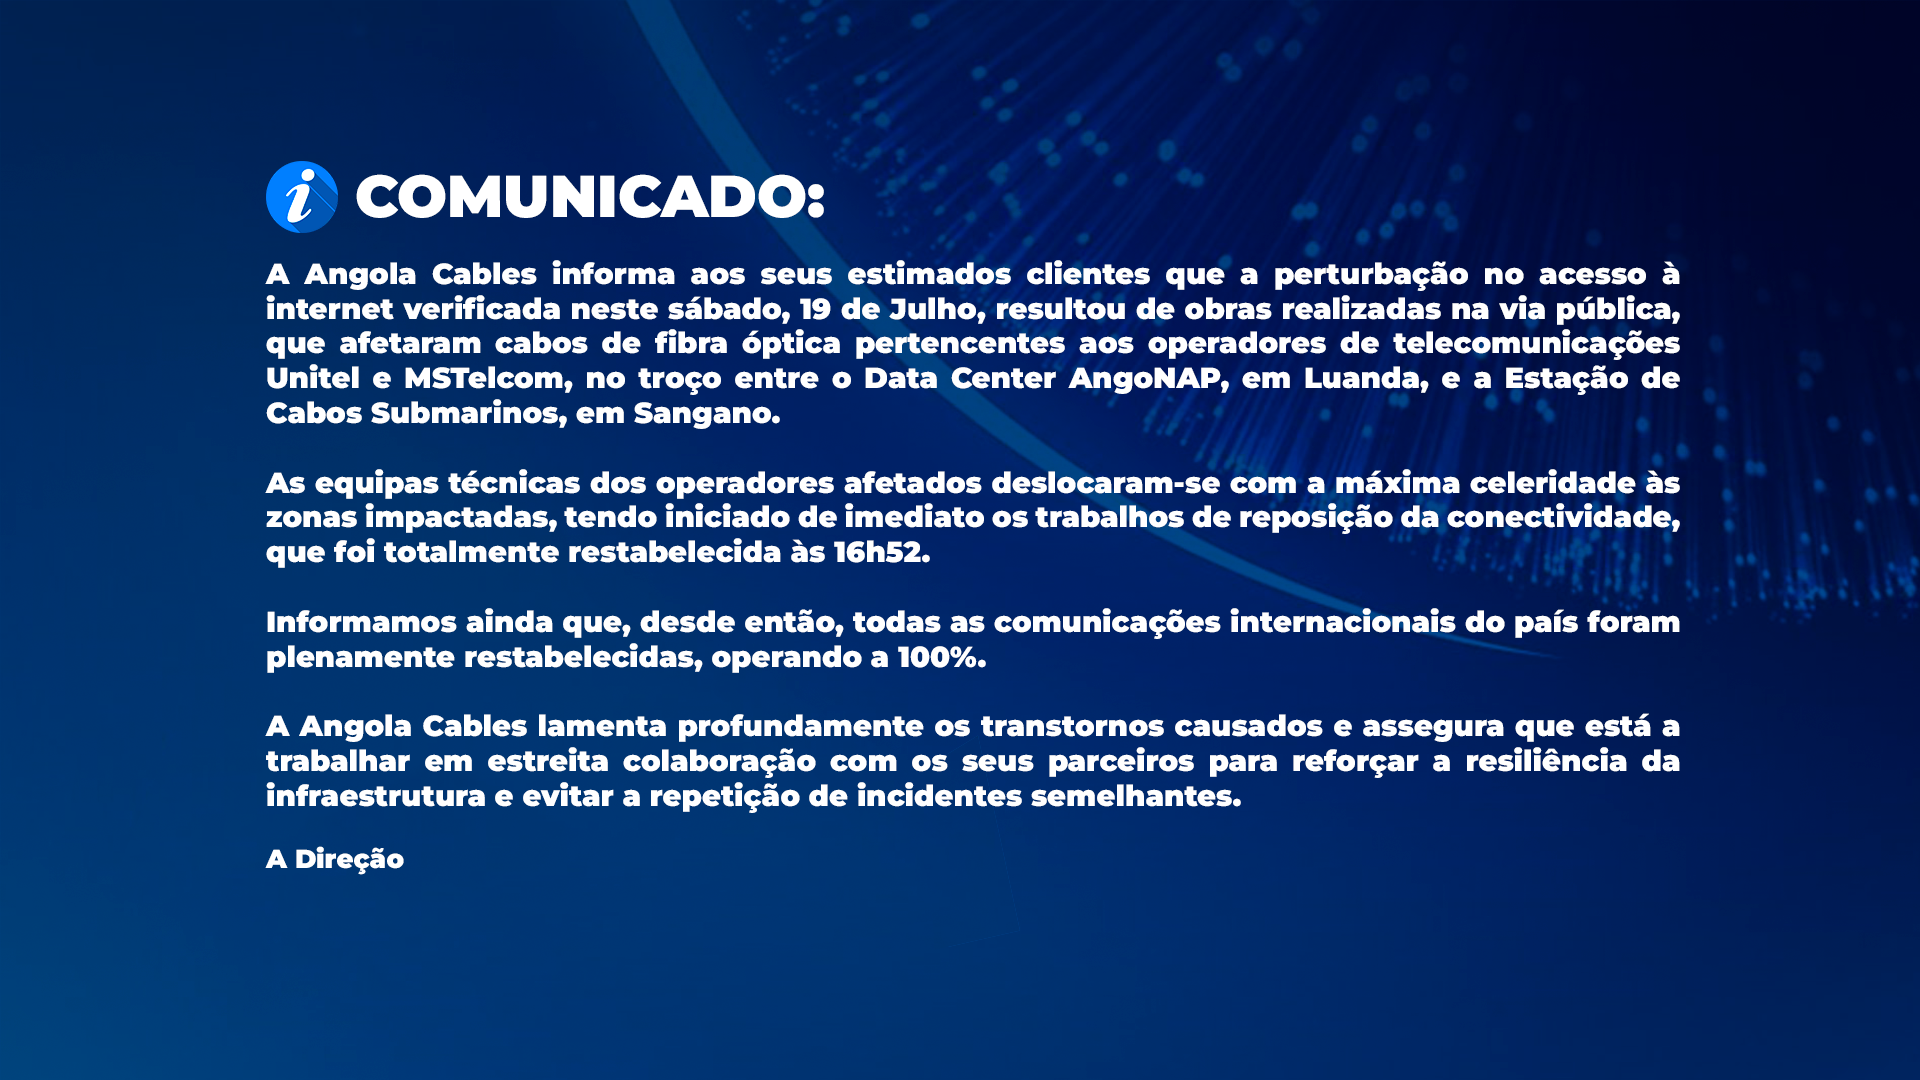
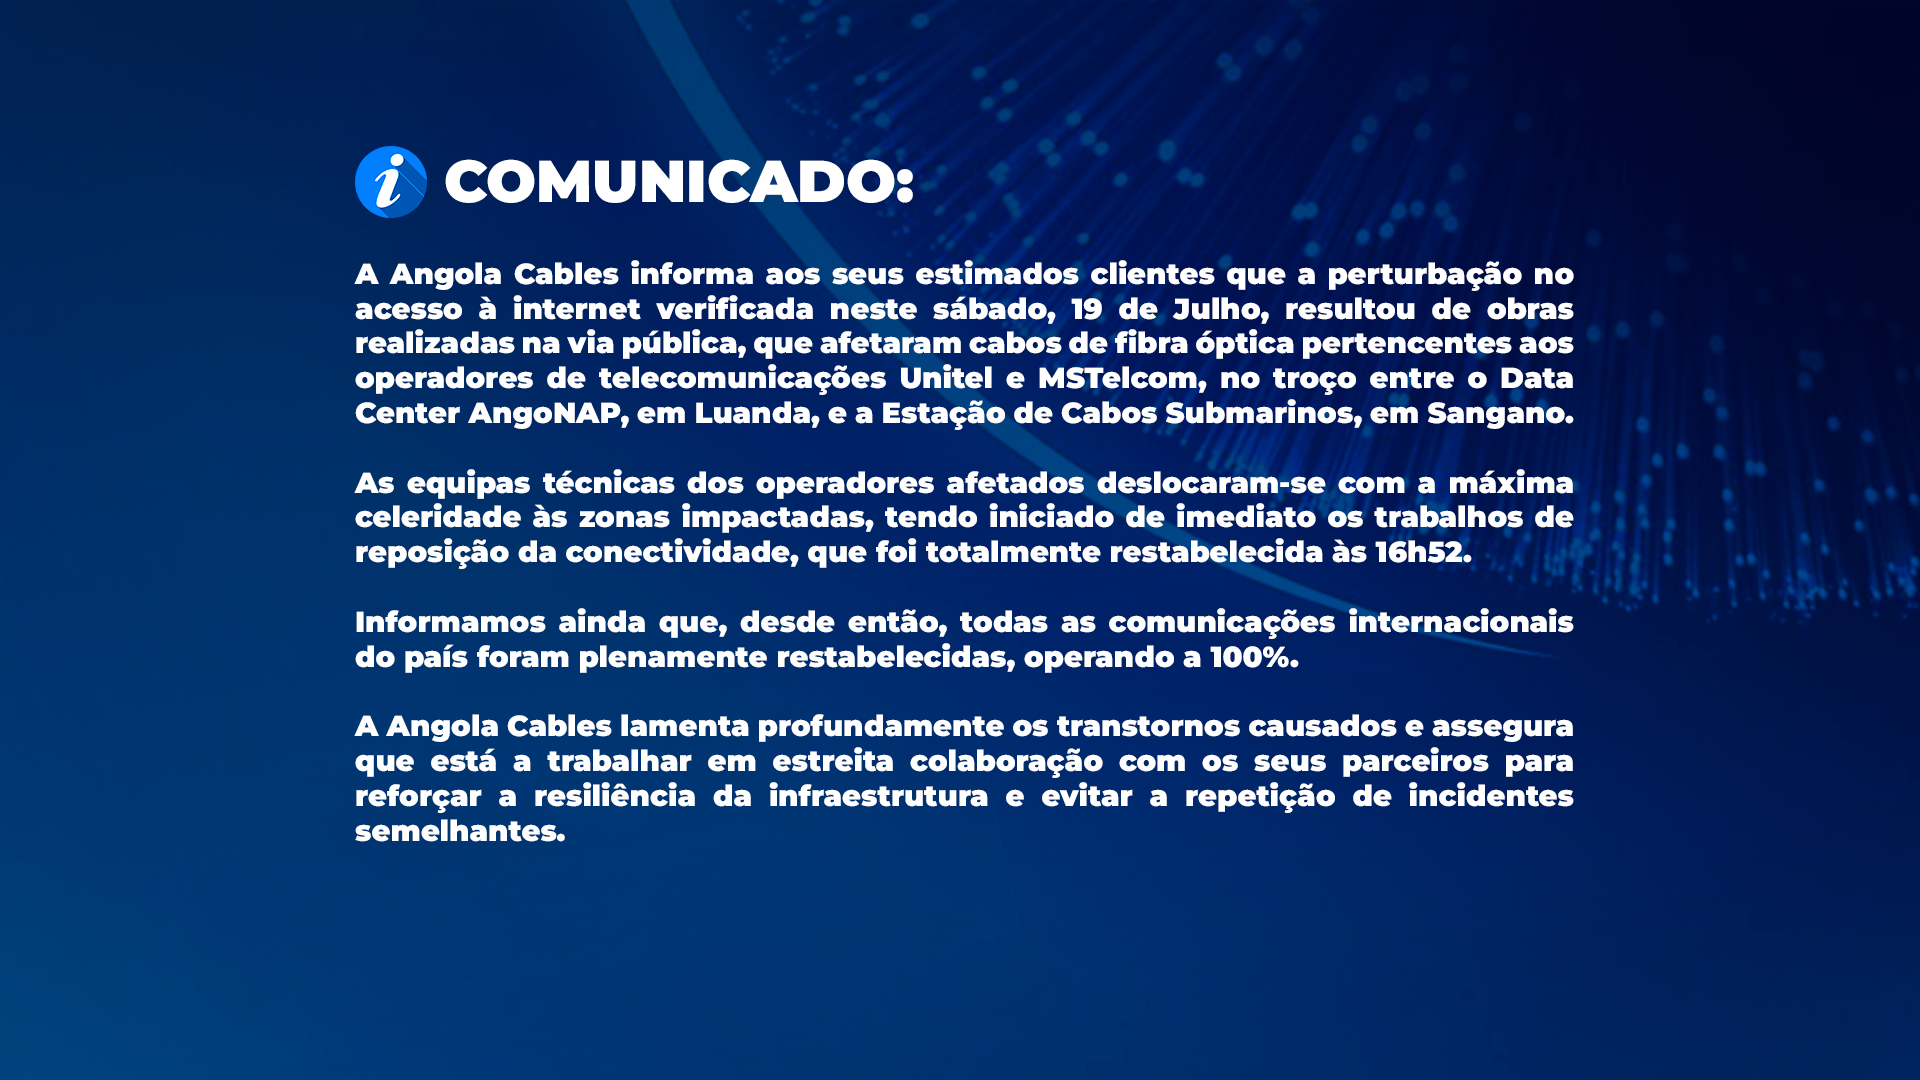
hheight do notice set para cem por cento

diff --git a/src/app/layout/slider/slider.component.html b/src/app/layout/slider/slider.component.html
@@ -10,7 +10,7 @@
         <div style="width: 100%; overflow: hidden;">
             <img src="img/notice.png"
                  alt="Comunicado"
-                 style="width: 100%; height: auto; min-height: 300px; object-fit: cover;">
+                 style="width: 100%; height: 100%; min-height: 300px; ">
         </div>
         <div style="width: 100%; overflow: hidden;">
             <video
